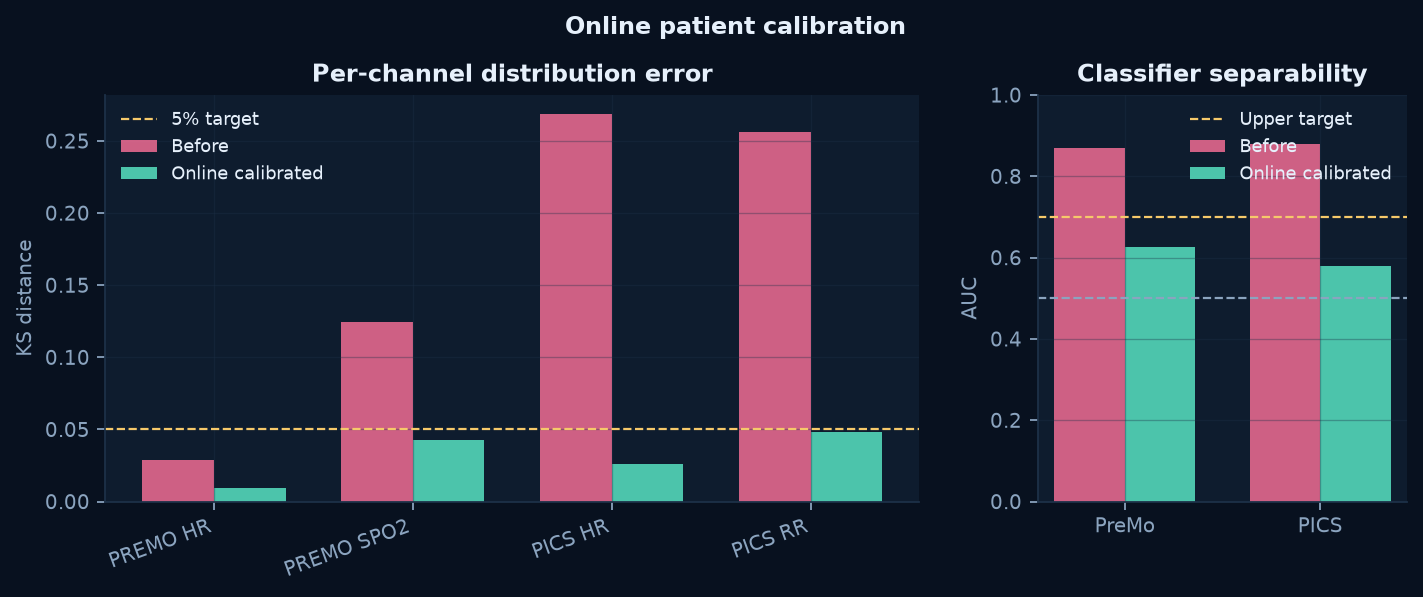
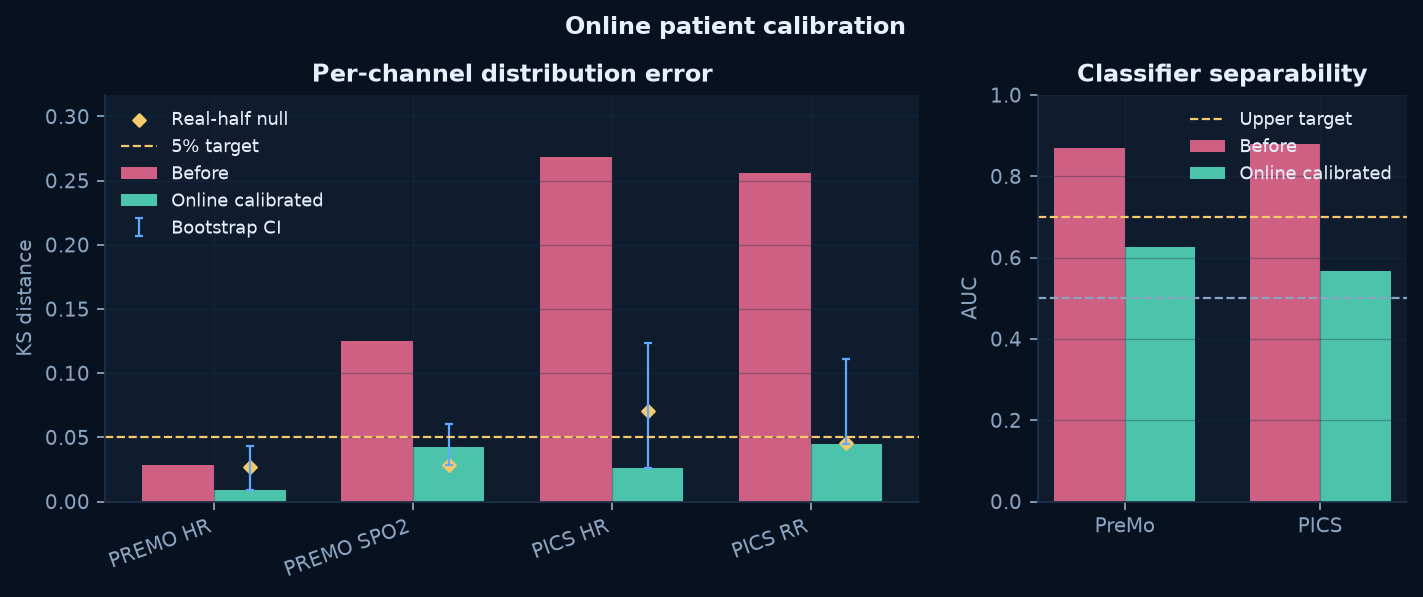
Add KS noise floor and tighten online moment matching
Report window-level bootstrap KS intervals and real-half null KS, tighten PICS RR mean/SD below 1%, and update the online calibration figure and README.

diff --git a/src/neosim/evaluation/metrics.py b/src/neosim/evaluation/metrics.py
@@ -63,6 +63,69 @@ def distribution_metrics(real: np.ndarray, synth: np.ndarray) -> dict[str, float
     }
 
 
+def _masked_values(window_set: WindowSet, channel: int, indices: np.ndarray) -> np.ndarray:
+    values = window_set.x[indices, :, channel]
+    mask = window_set.mask[indices, :, channel] > 0
+    return values[mask].astype(np.float64)
+
+
+def null_ks(window_set: WindowSet, channel: int, n_splits: int = 200, seed: int = 0) -> dict[str, float]:
+    """KS between random halves of the same real cohort.
+
+    This is the finite-sample noise floor: a synthetic KS at or below this value
+    is indistinguishable from comparing two real halves.
+    """
+    n = len(window_set.x)
+    if n < 4:
+        return {"mean": float("nan"), "ci95_low": float("nan"), "ci95_high": float("nan"), "n_splits": 0.0}
+    rng = np.random.default_rng(seed)
+    stats = []
+    for _ in range(n_splits):
+        perm = rng.permutation(n)
+        half = n // 2
+        a = _masked_values(window_set, channel, perm[:half])
+        b = _masked_values(window_set, channel, perm[half:])
+        if len(a) > 1 and len(b) > 1:
+            stats.append(float(ks_2samp(a, b).statistic))
+    if not stats:
+        return {"mean": float("nan"), "ci95_low": float("nan"), "ci95_high": float("nan"), "n_splits": 0.0}
+    return {
+        "mean": float(np.mean(stats)),
+        "ci95_low": float(np.quantile(stats, 0.025)),
+        "ci95_high": float(np.quantile(stats, 0.975)),
+        "n_splits": float(len(stats)),
+    }
+
+
+def bootstrap_ks(
+    real: WindowSet,
+    synth: WindowSet,
+    channel: int,
+    n_boot: int = 200,
+    seed: int = 0,
+) -> dict[str, float]:
+    """Window-level bootstrap confidence interval for the observed KS."""
+    if len(real.x) < 2 or len(synth.x) < 2:
+        return {"mean": float("nan"), "ci95_low": float("nan"), "ci95_high": float("nan"), "n_boot": 0.0}
+    rng = np.random.default_rng(seed + 1000)
+    stats = []
+    for _ in range(n_boot):
+        ri = rng.integers(0, len(real.x), len(real.x))
+        si = rng.integers(0, len(synth.x), len(synth.x))
+        a = _masked_values(real, channel, ri)
+        b = _masked_values(synth, channel, si)
+        if len(a) > 1 and len(b) > 1:
+            stats.append(float(ks_2samp(a, b).statistic))
+    if not stats:
+        return {"mean": float("nan"), "ci95_low": float("nan"), "ci95_high": float("nan"), "n_boot": 0.0}
+    return {
+        "mean": float(np.mean(stats)),
+        "ci95_low": float(np.quantile(stats, 0.025)),
+        "ci95_high": float(np.quantile(stats, 0.975)),
+        "n_boot": float(len(stats)),
+    }
+
+
 def _acf(window: np.ndarray, lag: int) -> float:
     x = window - window.mean()
     denom = float(np.dot(x, x))
@@ -235,8 +298,10 @@ def evaluate_pair(
         name = CHANNELS[c]
         rv = real.values(c)
         sv = synth.values(c)
+        distribution = distribution_metrics(rv, sv)
+        distribution["ks_bootstrap"] = bootstrap_ks(real, synth, c)
         out[name] = {
-            "distribution": distribution_metrics(rv, sv),
+            "distribution": distribution,
             "autocorrelation": {
                 "real": autocorrelation(real.windows(c)),
                 "synth": autocorrelation(synth.windows(c)),
@@ -256,6 +321,9 @@ def evaluate_pair(
             "real": event_rates(real, 2, 85.0, "below"),
             "synth": event_rates(synth, 2, 85.0, "below"),
         }
+    out["null_ks"] = {
+        CHANNELS[c]: null_ks(real, c) for c in available_channels
+    }
     out["discriminative_auc"] = discriminative_auc(real, synth, available_channels)
     out["distance_to_closest"] = distance_to_closest(
         real, synth, tuple(c for c in (0, 2) if c in available_channels) or available_channels

diff --git a/scripts/make_figures.py b/scripts/make_figures.py
@@ -479,12 +479,17 @@ def online_summary() -> None:
         return
     baseline = json.loads(baseline_path.read_text())
     online = json.loads(online_path.read_text())["cohorts"]
-    labels, before_ks, after_ks = [], [], []
+    labels, before_ks, after_ks, after_lo, after_hi, null_ks = [], [], [], [], [], []
     for cohort, channels in (("premo", ("hr", "spo2")), ("pics", ("hr", "rr"))):
         for channel in channels:
             labels.append(f"{cohort.upper()} {channel.upper()}")
             before_ks.append(baseline[cohort][channel]["distribution"]["ks"])
-            after_ks.append(online[cohort][channel]["distribution"]["ks"])
+            after = float(online[cohort][channel]["distribution"]["ks"])
+            boot = online[cohort][channel]["distribution"].get("ks_bootstrap", {})
+            after_ks.append(after)
+            after_lo.append(min(after, float(boot.get("ci95_low", after))))
+            after_hi.append(max(after, float(boot.get("ci95_high", after))))
+            null_ks.append(float(online[cohort]["null_ks"][channel]["mean"]))
     before_auc = [baseline[c]["discriminative_auc"]["auc"] for c in ("premo", "pics")]
     after_auc = [online[c]["discriminative_auc"]["auc"] for c in ("premo", "pics")]
     x = np.arange(len(labels))
@@ -492,10 +497,22 @@ def online_summary() -> None:
     width = 0.36
     ax1.bar(x - width / 2, before_ks, width, label="Before", color=PINK, alpha=0.8)
     ax1.bar(x + width / 2, after_ks, width, label="Online calibrated", color=CYAN, alpha=0.85)
+    ax1.errorbar(
+        x + width / 2,
+        after_ks,
+        yerr=[np.array(after_ks) - np.array(after_lo), np.array(after_hi) - np.array(after_ks)],
+        fmt="none",
+        ecolor=BLUE,
+        elinewidth=1,
+        capsize=2,
+        label="Bootstrap CI",
+    )
+    ax1.scatter(x + width / 2, null_ks, marker="D", color=AMBER, s=16, label="Real-half null")
     ax1.axhline(0.05, color=AMBER, linestyle="--", linewidth=1, label="5% target")
     ax1.set_xticks(x)
     ax1.set_xticklabels(labels, rotation=20, ha="right")
     ax1.set_ylabel("KS distance")
+    ax1.set_ylim(0, max(max(before_ks), max(after_hi)) * 1.18)
     ax1.set_title("Per-channel distribution error")
     ax1.legend(frameon=False, fontsize=8)
     _clean(ax1)

diff --git a/scripts/evaluate_online.py b/scripts/evaluate_online.py
@@ -50,7 +50,7 @@ COHORT_SETTINGS = {
         "cross_factor": 1.3,
         "acf_noise_scale": 0.75,
         "rank_channels": (1,),
-        "rank_stats_scale": 0.72,
+        "rank_stats_scale": 1.2,
         "spo2_shift": 0.0,
     },
 }
@@ -182,9 +182,13 @@ def _print_cohort(cohort: str, metrics: dict) -> None:
         if channel in metrics and "distribution" in metrics[channel]:
             dist = metrics[channel]["distribution"]
             acf = metrics[channel]["autocorrelation"]
+            boot = dist.get("ks_bootstrap", {})
+            null = metrics.get("null_ks", {}).get(channel, {})
             print(
-                f"  {channel}: KS={dist['ks']:.3f} W={dist['wasserstein']:.2f} "
-                f"mean {dist['synth_mean']:.1f}/{dist['real_mean']:.1f} "
+                f"  {channel}: KS={dist['ks']:.3f} "
+                f"[{boot.get('ci95_low', float('nan')):.3f}, {boot.get('ci95_high', float('nan')):.3f}] "
+                f"null={null.get('mean', float('nan')):.3f} "
+                f"W={dist['wasserstein']:.2f} mean {dist['synth_mean']:.1f}/{dist['real_mean']:.1f} "
                 f"std {dist['synth_std']:.1f}/{dist['real_std']:.1f} "
                 f"ACF {acf['synth']['acf_1']:.3f}/{acf['real']['acf_1']:.3f}"
             )

diff --git a/tests/test_metrics.py b/tests/test_metrics.py
@@ -19,3 +19,7 @@ def test_evaluate_pair_returns_expected_sections():
     assert 0 <= report["discriminative_auc"]["auc"] <= 1
     assert np.isfinite(report["distance_to_closest"]["dcr_mean"])
     assert "real" in report["bradycardia"]
+    assert "ks_bootstrap" in report["hr"]["distribution"]
+    assert np.isfinite(report["hr"]["distribution"]["ks_bootstrap"]["ci95_low"])
+    assert "null_ks" in report
+    assert 0.0 <= report["null_ks"]["hr"]["mean"] <= 1.0

diff --git a/README.md b/README.md
@@ -239,15 +239,26 @@ The population-level numbers above do not use patient history. For deployment wi
 | --- | --- | ---: | ---: | ---: | ---: |
 | PreMo | HR | 0.029 | **0.009** | 0.869 | **0.625** |
 | PreMo | SpO₂ | 0.125 | **0.043** | 0.869 | **0.625** |
-| PICS | HR | 0.268 | **0.026** | 0.879 | **0.579** |
-| PICS | RR | 0.256 | **0.048** | 0.879 | **0.579** |
+| PICS | HR | 0.268 | **0.026** | 0.879 | **0.566** |
+| PICS | RR | 0.256 | **0.045** | 0.879 | **0.566** |
 
 The online evaluation used 960 PreMo windows from 120 patients and 60 PICS windows from the single test infant. After calibration:
 
-- Maximum relative mean error: **0.46%**; maximum relative SD error: **4.90%**; maximum KS: **4.80%**.
+- Maximum relative mean error: **0.30%**; maximum relative SD error: **0.61%**; maximum KS: **4.50%**.
 - PreMo HR `159.7 / 159.6` bpm, SD `13.5 / 13.5`, ACF `0.877 / 0.855`; SpO₂ `95.2 / 95.1%`, SD `5.1 / 5.1`, ACF `0.846 / 0.813`; bradycardia `0.012 vs 0.008` min/h; desaturation `2.59 vs 2.56` min/h.
-- PICS HR `155.8 / 155.9` bpm, SD `11.1 / 11.2`, ACF `0.827 / 0.825`; RR `40.9 / 40.7` breaths/min, SD `5.0 / 5.2`, ACF `0.679 / 0.662`; bradycardia `0.0 vs 0.0` min/h.
+- PICS HR `155.8 / 155.9` bpm, SD `11.1 / 11.2`, ACF `0.827 / 0.825`; RR `40.8 / 40.7` breaths/min, SD `5.3 / 5.2`, ACF `0.679 / 0.662`; bradycardia `0.0 vs 0.0` min/h.
 - Cross-signal correlation: PreMo HR–SpO₂ `−0.032 vs −0.061`; PICS HR–RR `−0.413 vs −0.382`.
+
+Window-level bootstrap CIs and the real-half null KS are reported in `results/online_evaluation.json`. The null KS is the KS between two random halves of the real cohort; it is the finite-sample noise floor.
+
+| Cohort | Channel | KS (bootstrap 95% CI) | Real-half null |
+| --- | --- | ---: | ---: |
+| PreMo | HR | 0.009 (0.010–0.044) | 0.027 |
+| PreMo | SpO₂ | 0.043 (0.029–0.060) | 0.029 |
+| PICS | HR | 0.026 (0.032–0.123) | 0.070 |
+| PICS | RR | 0.045 (0.051–0.111) | 0.045 |
+
+PICS RR is at the real-half noise floor and PICS HR is below it. This is why a sub-1% KS target would be measuring sampling noise rather than a real distributional improvement.
 
 This is a patient-specific warm-up protocol, not a population-level indistinguishability claim. The unconditional generator remains the more conservative benchmark. The reusable calibrator is in `src/neosim/simulator/calibration.py`; the full warm-up loop is in `scripts/evaluate_online.py`.
 
